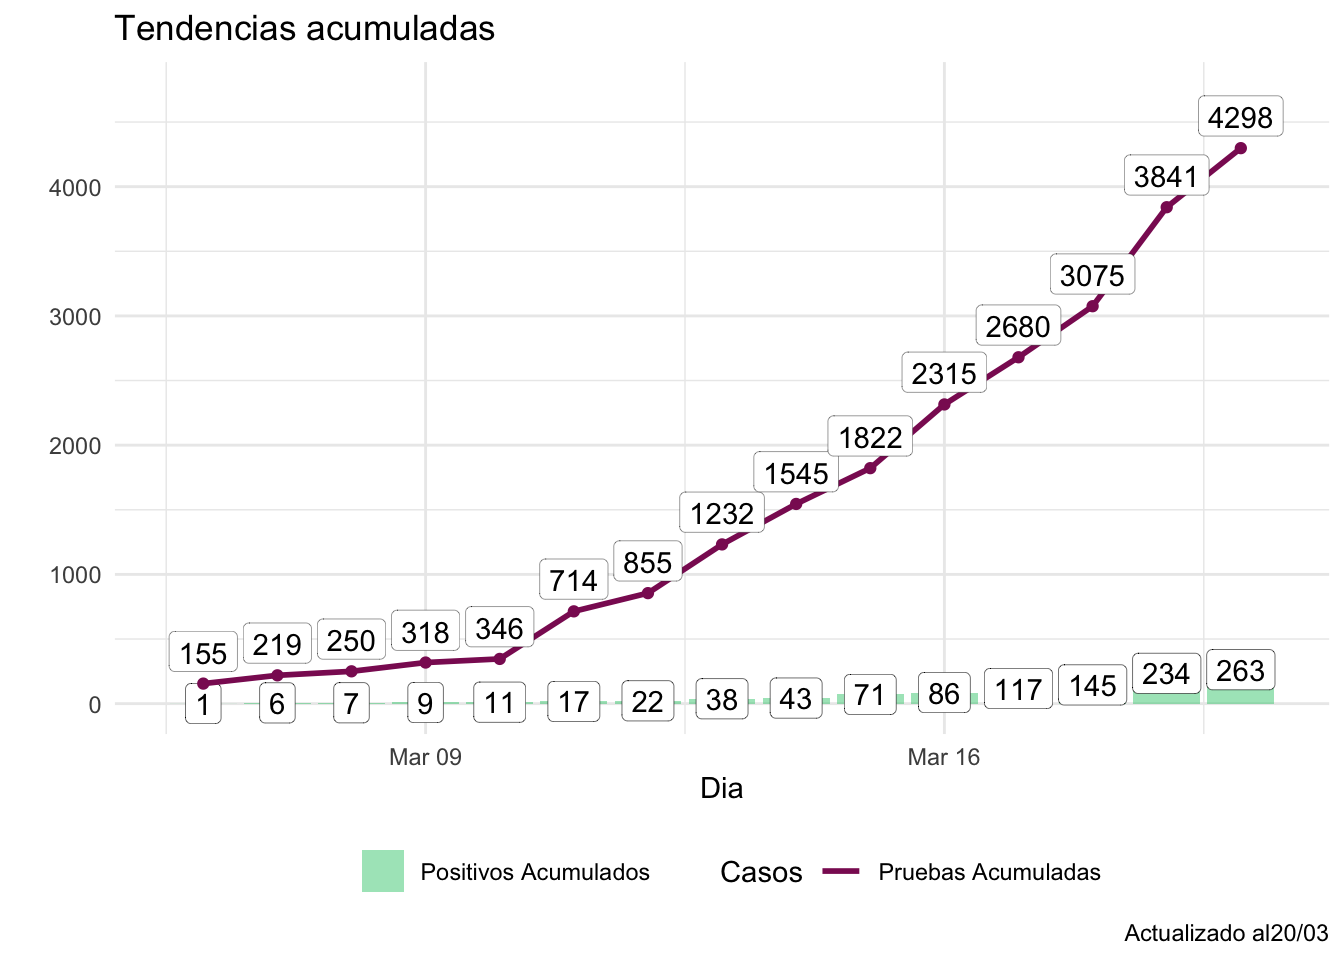
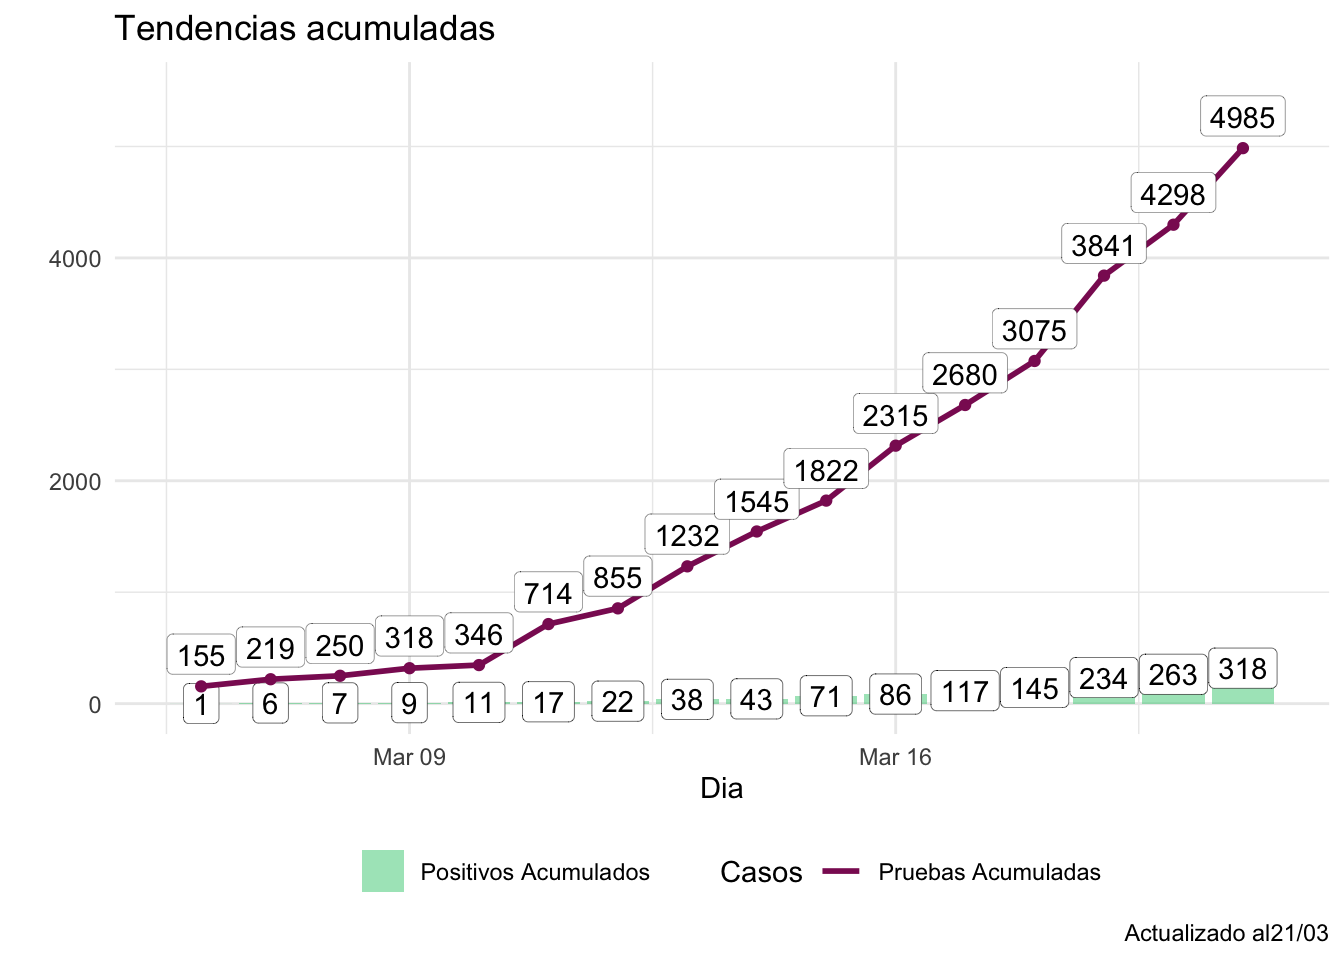
update 03/21

diff --git a/docs/Noticias_historias.html b/docs/Noticias_historias.html
@@ -372,30 +372,40 @@ div.tocify {
 <div id="objetivo" class="section level1">
 <h1><span class="header-section-number">1</span> Objetivo</h1>
 <p>Noticias con información relevante sobre la pandemia.</p>
-<div id="espanol" class="section level2">
-<h2><span class="header-section-number">1.1</span> Español</h2>
-<p><a href="https://elpais.com/sociedad/2020-03-15/berlin-trata-de-impedir-que-ee-uu-compre-la-investigacion-de-una-empresa-alemana-que-trabaja-en-la-vacuna-contra-el-virus.html?ssm=TW_CC">Berlin intenta detener que USA compre la investigación de una empresa alemana que trabaja en la vacuna contra el coronavirus</a></p>
-</div>
-<div id="ingles" class="section level2">
-<h2><span class="header-section-number">1.2</span> Ingles:</h2>
-<div id="la-importancia-de-la-distancia-social-y-cuarentena" class="section level3">
-<h3><span class="header-section-number">1.2.1</span> La importancia de la distancia social y cuarentena**</h3>
+<div id="la-importancia-de-la-distancia-social-y-cuarentena" class="section level2">
+<h2><span class="header-section-number">1.1</span> La importancia de la distancia social y cuarentena**</h2>
 <p><a href="https://www.washingtonpost.com/graphics/2020/world/corona-simulator/">How to "flatten the curve- Washington Post</a></p>
 <p><a href="https://graphics.reuters.com/CHINA-HEALTH-SOUTHKOREA-CLUSTERS/0100B5G33SB/index.html">Patient 31-South Corea</a></p>
 </div>
-<div id="vacuna-para-el-covid19" class="section level3">
-<h3><span class="header-section-number">1.2.2</span> Vacuna para el COVID19?</h3>
-<p><a href="https://www.wbur.org/commonhealth/2020/02/21/were-racing-time-biotechnology-companies-rush-to-complete-coronavirus-vaccine">biotechnology companies rush to complete coronavirus vaccine</a></p>
+<div id="vacuna-para-el-covid19" class="section level2">
+<h2><span class="header-section-number">1.2</span> Vacuna para el COVID19?</h2>
+<div id="tiempo-para-obtener-la-vacuna" class="section level3">
+<h3><span class="header-section-number">1.2.1</span> Tiempo para obtener la vacuna</h3>
+<blockquote class="twitter-tweet">
+<p lang="es" dir="ltr">
+<a href="https://twitter.com/hashtag/vacunas?src=hash&amp;ref_src=twsrc%5Etfw">#vacunas</a><br><br>Aún faltan meses para que podamos contar con una vacuna segura contra el COVID-19. A la fecha se han identificado una serie de candidatos para esta vacuna, los cuales han sido resumidos por el equipo de COMCIENCIA en la infografía de hoy.<a href="https://twitter.com/hashtag/ciencia?src=hash&amp;ref_src=twsrc%5Etfw">#ciencia</a> <a href="https://twitter.com/hashtag/coronavirus?src=hash&amp;ref_src=twsrc%5Etfw">#coronavirus</a> <a href="https://twitter.com/hashtag/salud?src=hash&amp;ref_src=twsrc%5Etfw">#salud</a> <a href="https://t.co/dENVitqLmM">pic.twitter.com/dENVitqLmM</a>
+</p>
+— Comciencia . (<span class="citation">@comcienciacrac</span>) <a href="https://twitter.com/comcienciacrac/status/1241200175240052736?ref_src=twsrc%5Etfw">March 21, 2020</a>
+</blockquote>
+<script async src="https://platform.twitter.com/widgets.js" charset="utf-8"></script>
+</div>
+<div id="compra-de-vacuna" class="section level3">
+<h3><span class="header-section-number">1.2.2</span> Compra de vacuna</h3>
+<p><a href="https://elpais.com/sociedad/2020-03-15/berlin-trata-de-impedir-que-ee-uu-compre-la-investigacion-de-una-empresa-alemana-que-trabaja-en-la-vacuna-contra-el-virus.html?ssm=TW_CC">Berlin intenta detener que USA compre la investigación de una empresa alemana que trabaja en la vacuna contra el coronavirus</a></p>
 <p><a href="https://www.cnbc.com/2020/03/15/coronavirus-germany-tries-to-stop-us-luring-away-firm-seeking-vaccine.html?fbclid=IwAR0Z7cEGB4TG6jAHHO3IHGnIe6M4QpLwMyIq1x6kGF87FIMJRt8EO81Cfkw">Germany tries to stop US luring away firm seeking vaccine</a></p>
 </div>
+<div id="carrera-para-obtener-la-vacuna" class="section level3">
+<h3><span class="header-section-number">1.2.3</span> Carrera para obtener la vacuna</h3>
+<p><a href="https://www.wbur.org/commonhealth/2020/02/21/were-racing-time-biotechnology-companies-rush-to-complete-coronavirus-vaccine">biotechnology companies rush to complete coronavirus vaccine</a></p>
+</div>
 <div id="respuestas-de-gobiernos" class="section level3">
-<h3><span class="header-section-number">1.2.3</span> Respuestas de gobiernos</h3>
+<h3><span class="header-section-number">1.2.4</span> Respuestas de gobiernos</h3>
 <p><a href="https://www.nytimes.com/interactive/2020/03/17/us/coronavirus-testing-data.html?action=click&amp;module=Top%20Stories&amp;pgtype=Homepage">U.S Lags ins Coronavirus Testing After Slow Response to Outbreak</a></p>
 </div>
 </div>
 <div id="videos-informativos" class="section level2">
 <h2><span class="header-section-number">1.3</span> Videos informativos</h2>
-<div id="espanol-1" class="section level3">
+<div id="espanol" class="section level3">
 <h3><span class="header-section-number">1.3.1</span> Español</h3>
 <p>[<img src="http://img.youtube.com/vi/vlzxSleRnmg/0.jpg" alt="Test" />](<a href="https://www.youtube.com/watch?v=vlzxSleRnmg" class="uri">https://www.youtube.com/watch?v=vlzxSleRnmg</a> " ")</p>
 <p>[<img src="http://img.youtube.com/vi/0SGdO61HRD8/0.jpg" alt="Test" />](<a href="https://www.youtube.com/watch?v=0SGdO61HRD8" class="uri">https://www.youtube.com/watch?v=0SGdO61HRD8</a> " ")</p>

diff --git a/docs/Propagacion.html b/docs/Propagacion.html
@@ -684,12 +684,37 @@ Nuevos_Positivos
 29
 </td>
 </tr>
+<tr>
+<td style="text-align:left;">
+2020-03-21
+</td>
+<td style="text-align:right;">
+318
+</td>
+<td style="text-align:right;">
+4985
+</td>
+<td style="text-align:right;">
+687
+</td>
+<td style="text-align:right;">
+55
+</td>
+</tr>
 </tbody>
 </table>
 </div>
 <div id="fuentes" class="section level2">
 <h2><span class="header-section-number">0.6</span> Fuentes</h2>
 <p>Para la construcción de la tabla he usado la información difundida por MINSA en su cuenta oficial de twitter <span class="citation">[@Minsa_Peru]</span>(<a href="https://twitter.com/Minsa_Peru" class="uri">https://twitter.com/Minsa_Peru</a>). Existe también la página <a href="https://www.gob.pe/8662" class="uri">https://www.gob.pe/8662</a>.</p>
+<p>03/21</p>
+<blockquote class="twitter-tweet">
+<p lang="es" dir="ltr">
+🔴COMUNICADO | El <a href="https://twitter.com/hashtag/Minsa?src=hash&amp;ref_src=twsrc%5Etfw">#Minsa</a> lamenta informar que hoy, sábado 21 de marzo, a las 07:20 horas, se registró el sensible fallecimiento de una persona con <a href="https://twitter.com/hashtag/COVID19?src=hash&amp;ref_src=twsrc%5Etfw">#COVID19</a> en Piura. El ministerio extiende sus condolencias a la familia. <a href="https://t.co/ZwMefFiTsq">pic.twitter.com/ZwMefFiTsq</a>
+</p>
+— Ministerio de Salud (<span class="citation">@Minsa_Peru</span>) <a href="https://twitter.com/Minsa_Peru/status/1241395322632503300?ref_src=twsrc%5Etfw">March 21, 2020</a>
+</blockquote>
+<script async src="https://platform.twitter.com/widgets.js" charset="utf-8"></script>
 <p>03/20</p>
 <div id="casos" class="section level3">
 <h3><span class="header-section-number">0.6.1</span> Casos</h3>
